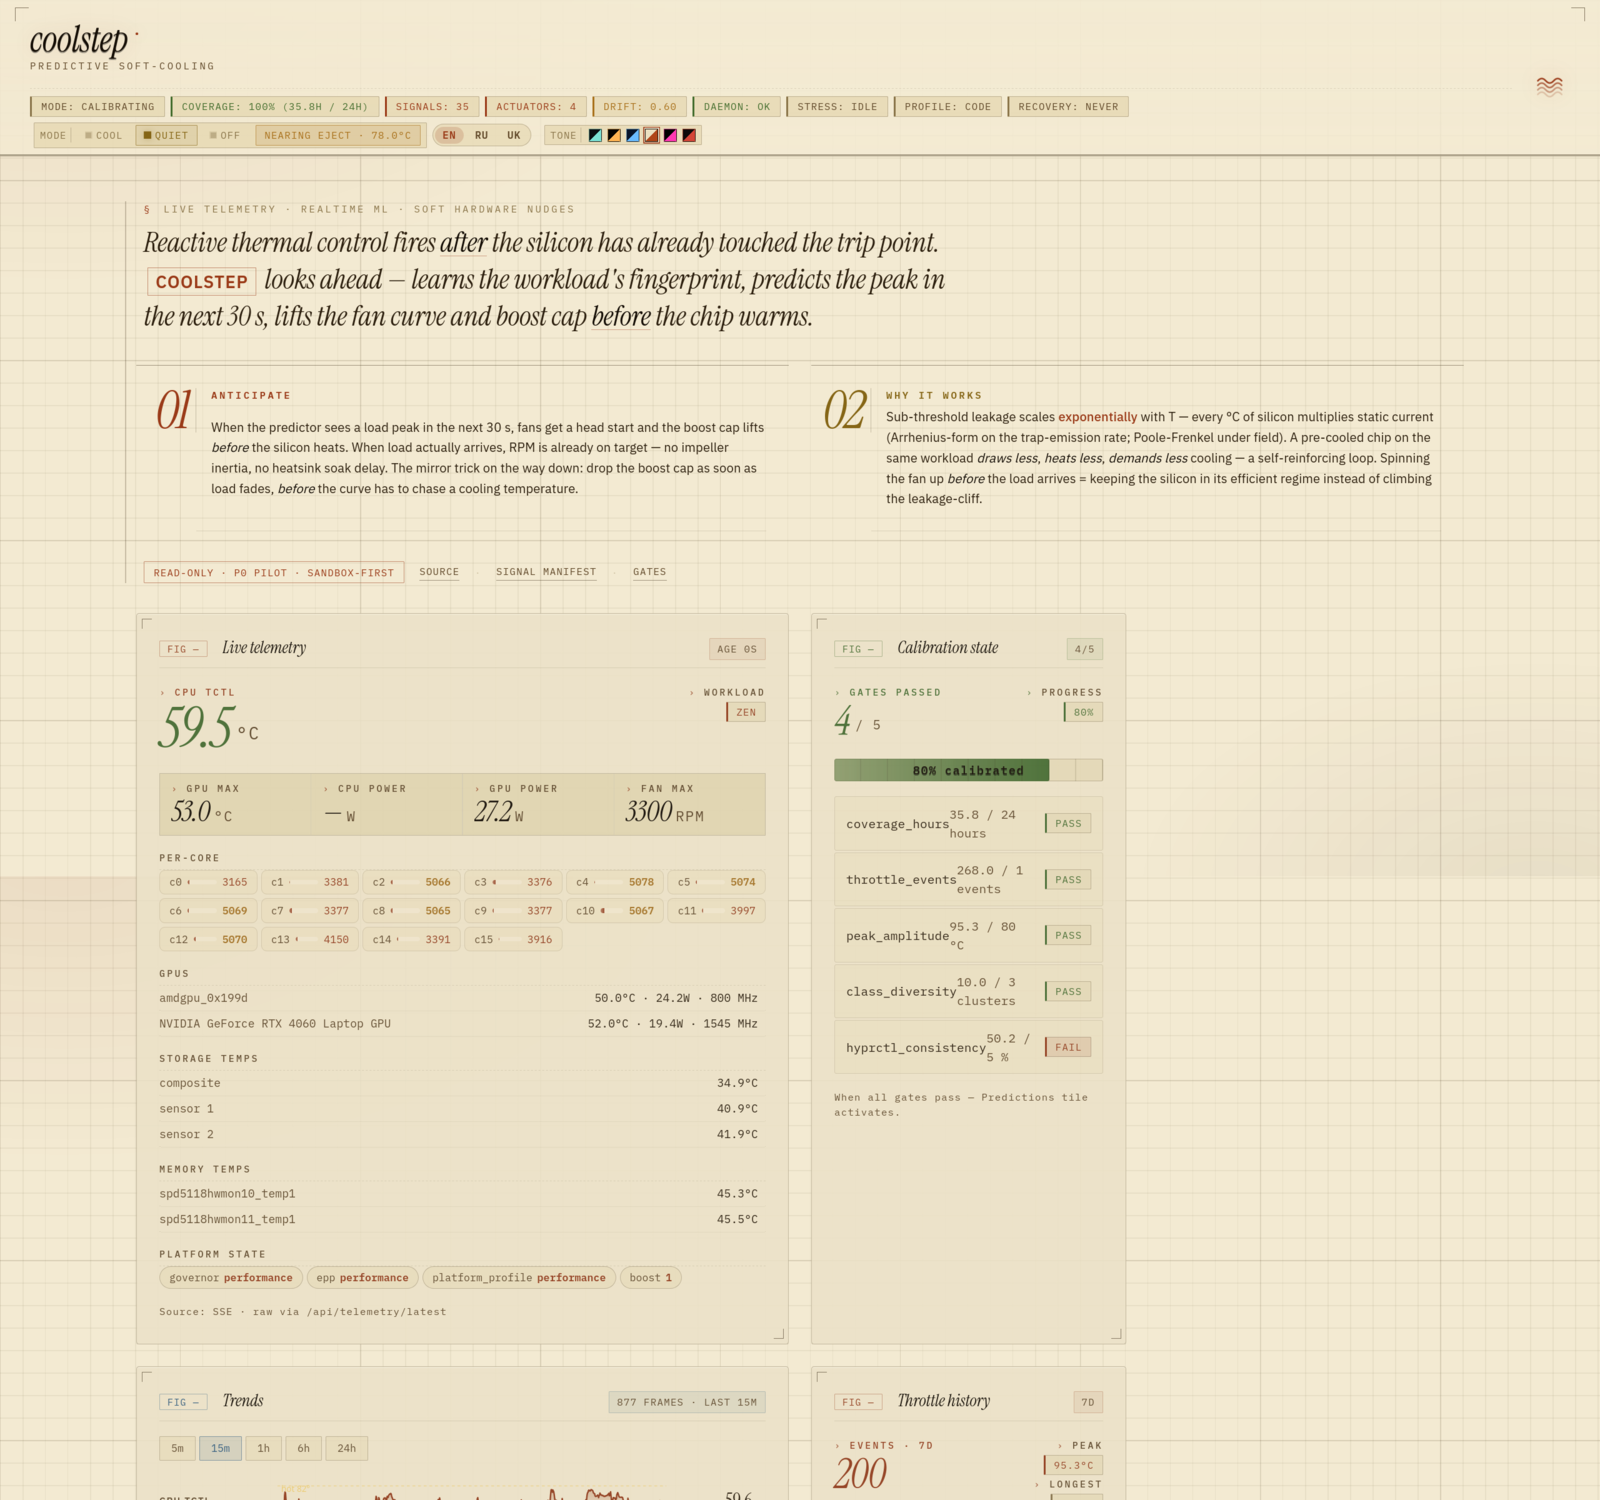
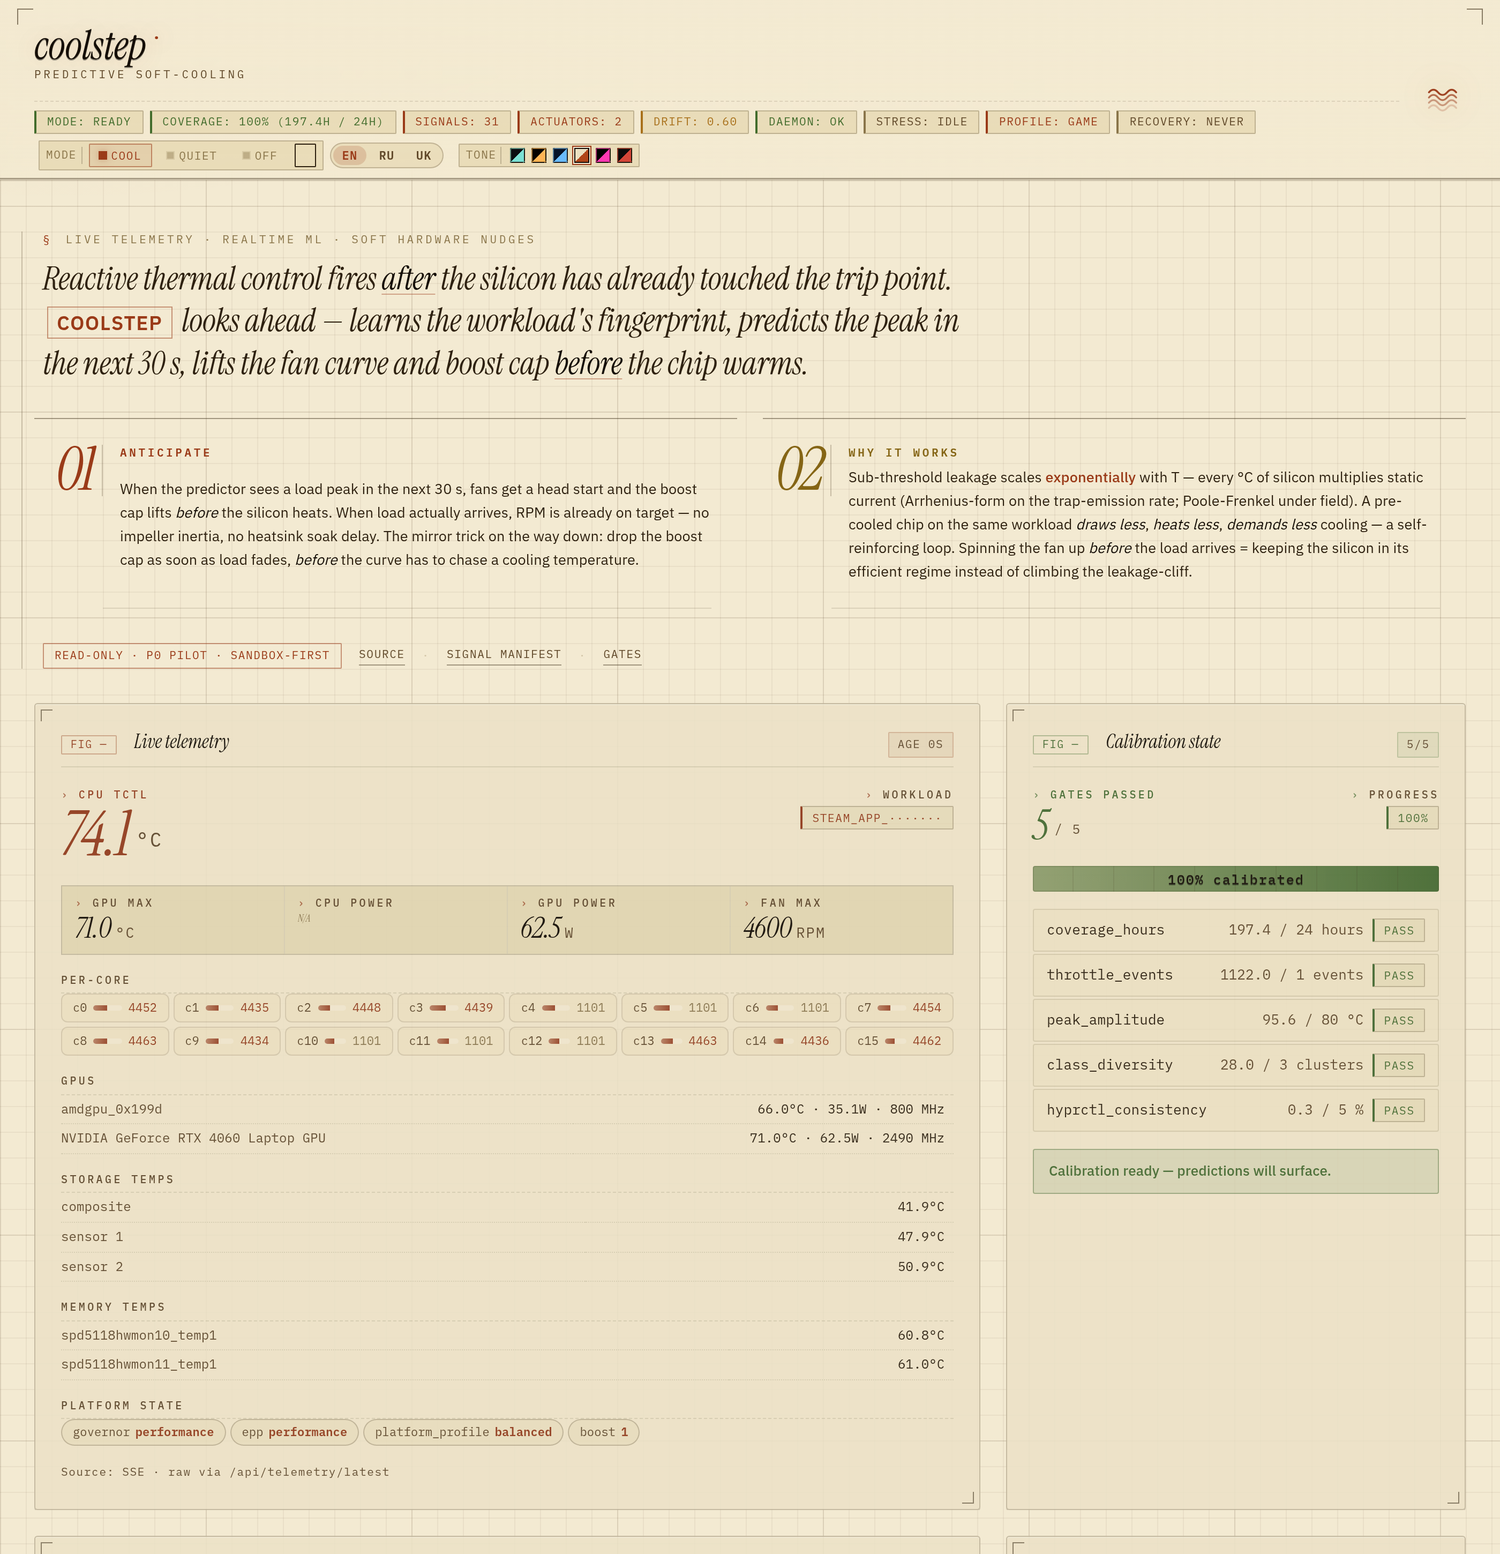
docs: refresh dashboard hero — live parchment capture + bump badges to v0.5.21

diff --git a/README.md b/README.md
@@ -7,8 +7,8 @@
 
 [![License: MIT](https://img.shields.io/badge/License-MIT-blue.svg)](LICENSE)
 [![Python 3.12+](https://img.shields.io/badge/python-3.12+-blue.svg)](https://www.python.org/)
-[![v0.5.19](https://img.shields.io/badge/release-v0.5.19-orange)](https://github.com/zzallirog/coolstep/releases/tag/v0.5.19)
-[![tests](https://img.shields.io/badge/tests-1018_passed-brightgreen)](#tested-against)
+[![v0.5.21](https://img.shields.io/badge/release-v0.5.21-orange)](https://github.com/zzallirog/coolstep/releases/tag/v0.5.21)
+[![tests](https://img.shields.io/badge/tests-1025_passed-brightgreen)](#tested-against)
 [![interference](https://img.shields.io/badge/interference_matrix-10%E2%9C%93%2F3_open-blue)](docs/interference-matrix.md)
 
 <picture>
